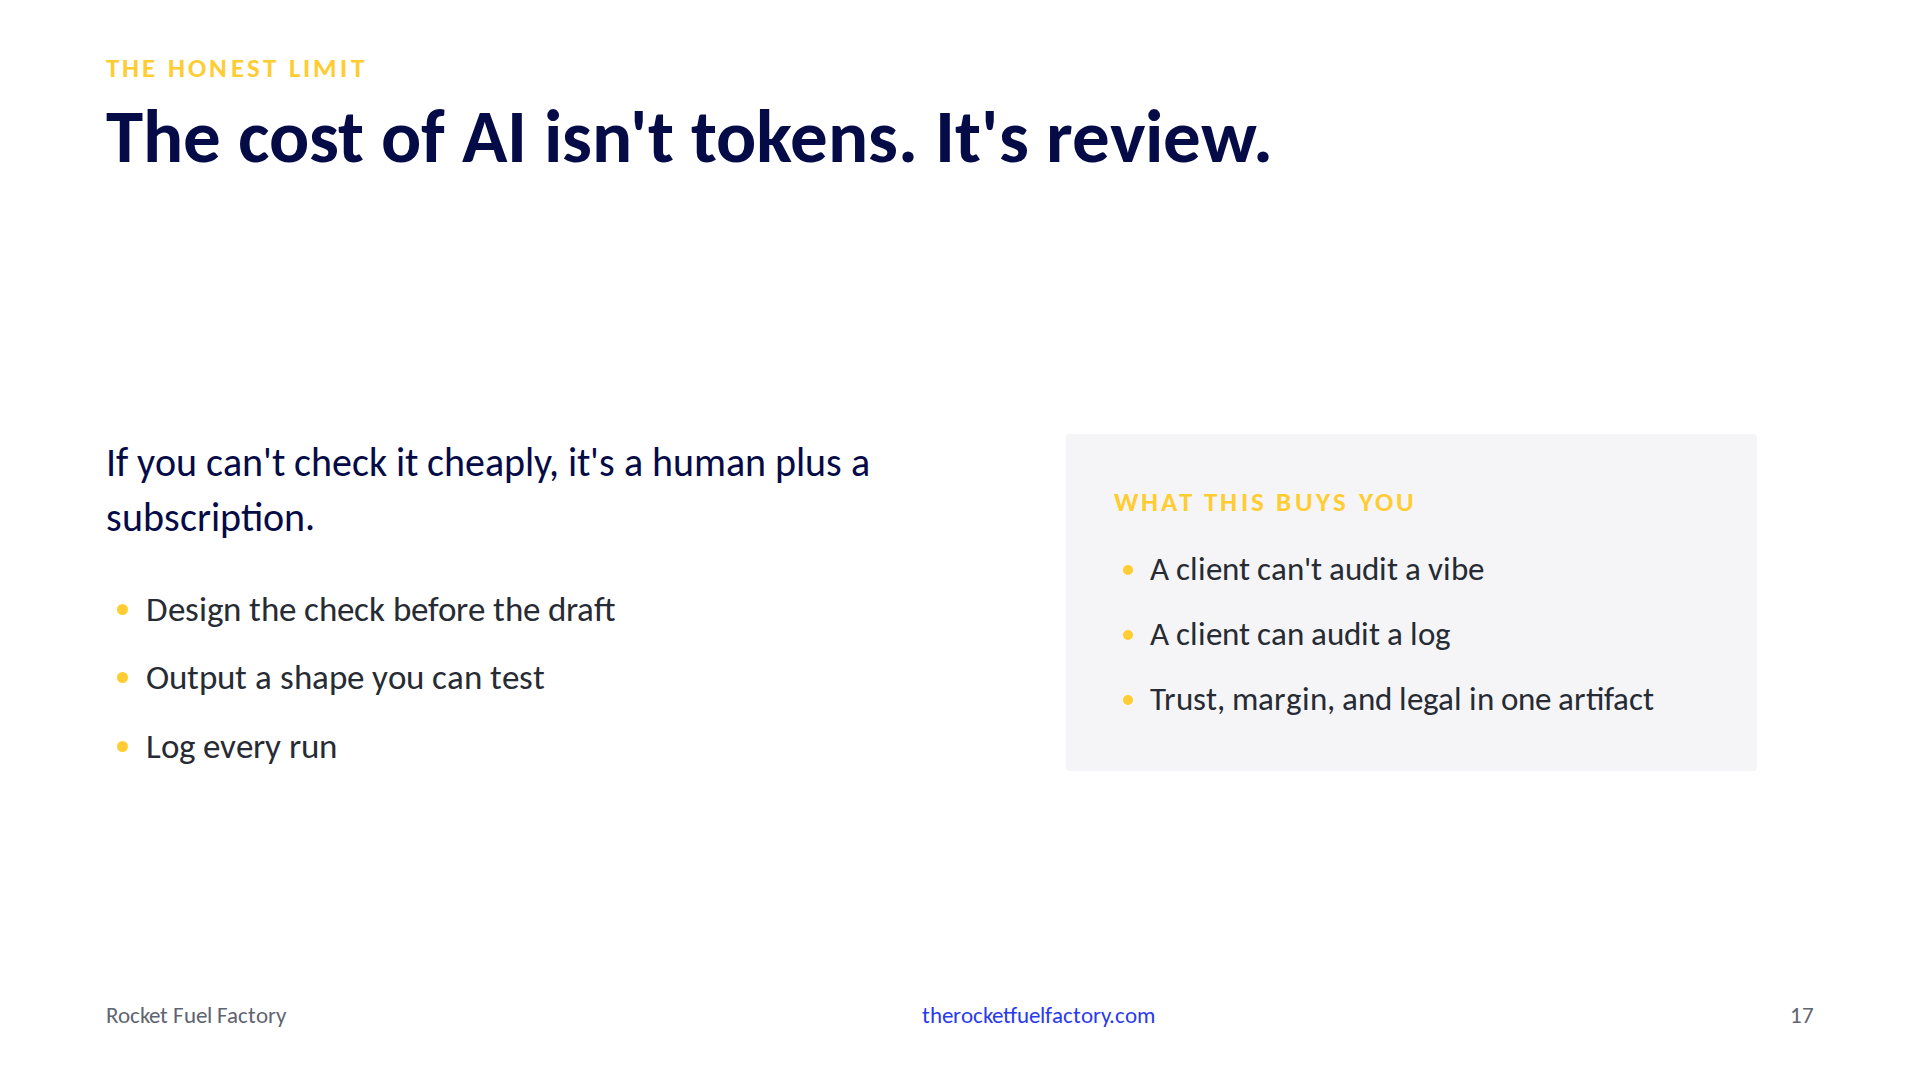
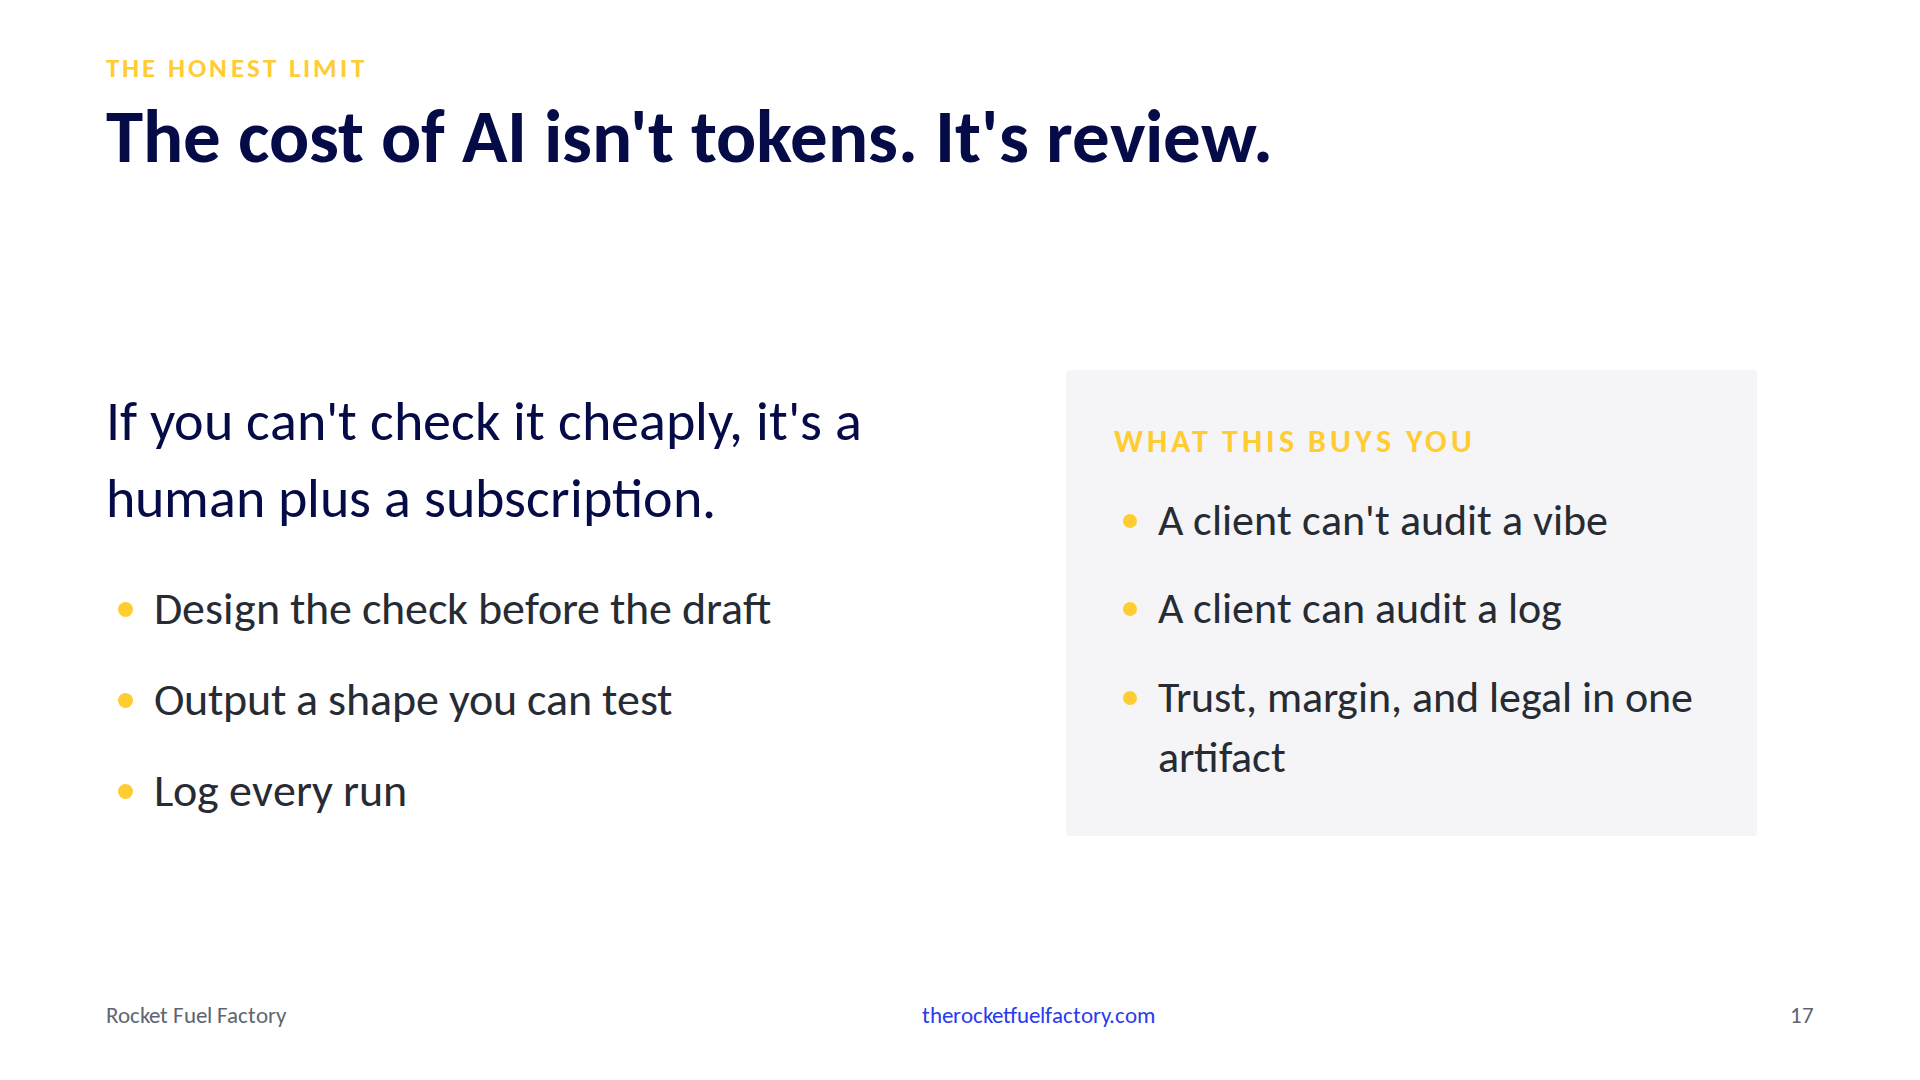
Slide 12: checklist, two readings, invoice line; two-column layout text enlarged

diff --git a/src/components/slides/012-ExistsMeansSaidOutLoud.jsx b/src/components/slides/012-ExistsMeansSaidOutLoud.jsx
@@ -1,26 +1,80 @@
-import TwoColumnSlide from '../layouts/TwoColumnSlide'
+import ContentFrame from '../chrome/ContentFrame'
 
-// What Aharon's law means in this talk, shown on a shop, not on a prompt.
-// The list was complete and followed; the meaning of one line was not.
+// What Aharon's law means in this talk, drawn instead of told: the checklist
+// the room already has, every box ticked, one line read two ways, and the
+// invoice line that finally surfaces it a year later.
+
+const STEPS = [
+  'Disable the account',
+  'Forward the mailbox',
+  'Collect the laptop',
+  'Cancel software licenses',
+  'Remove from distribution lists',
+  'Close the ticket',
+]
+const HIGHLIGHT = 3
+
+const TOP = 262
+
+function Check({ accent }) {
+  return (
+    <svg width="40" height="40" viewBox="0 0 40 40" className="shrink-0" aria-hidden="true">
+      <rect x="2" y="2" width="36" height="36" rx="6" fill="none" stroke={accent ? '#FF5219' : '#A9AEB8'} strokeWidth="3" />
+      <path d="M10 21 L17 28 L30 13" fill="none" stroke={accent ? '#FF5219' : '#5F6570'} strokeWidth="4" strokeLinecap="round" strokeLinejoin="round" />
+    </svg>
+  )
+}
+
 export default function ExistsMeansSaidOutLoud({ slideNumber }) {
   return (
-    <TwoColumnSlide
+    <ContentFrame
       eyebrow="What the law means here"
-      title="The list was followed. The process still didn't exist."
+      title="A client's employee leaves while Mike is on vacation"
       accent="orange"
       slideNumber={slideNumber}
-      paragraph='"Cancel software licenses." Same words. Two meanings.'
-      points={[
-        'Mike meant Microsoft, Adobe, and two more',
-        'The covering tech meant Microsoft',
-        'Nine Adobe seats, billed for a year',
-      ]}
-      cardTitle="The cost, and the fix"
-      cardItems={[
-        'A senior tech who cannot take vacation',
-        'Every departure handled twice',
-        'One hour with Mike. Write down which licenses.',
-      ]}
-    />
+    >
+      {/* The checklist */}
+      <div
+        className="absolute rounded-[4px] bg-rff-light"
+        style={{ left: 106, top: TOP, width: 820, padding: '40px 48px 44px' }}
+      >
+        <p className="text-[26px] font-bold uppercase tracking-[0.12em] text-rff-muted">Checklist: employee departure</p>
+        <p className="mt-[6px] text-[30px] text-rff-muted">Owner: Mike</p>
+        <ul className="mt-[28px]">
+          {STEPS.map((step, i) => {
+            const hot = i === HIGHLIGHT
+            return (
+              <li key={step} className="flex items-center gap-[22px]" style={{ marginTop: i === 0 ? 0 : 18 }}>
+                <Check accent={hot} />
+                <span className={hot ? 'text-[40px] font-bold text-rff-orange' : 'text-[36px] text-rff-body'}>{step}</span>
+              </li>
+            )
+          })}
+        </ul>
+      </div>
+
+      {/* Two readings of the highlighted line */}
+      <div className="absolute" style={{ left: 1010, top: TOP + 4, width: 804 }}>
+        <p className="text-[26px] font-bold uppercase tracking-[0.12em] text-rff-orange">That line means</p>
+        <p className="mt-[30px] text-[30px] text-rff-muted">To whoever covers for him</p>
+        <p className="mt-[4px] text-[40px] font-bold leading-snug text-rff-navy">Microsoft 365</p>
+        <p className="mt-[34px] text-[30px] text-rff-muted">To Mike</p>
+        <p className="mt-[4px] text-[40px] font-bold leading-snug text-rff-navy">
+          Microsoft 365, Adobe, and the two tools he set up for that client
+        </p>
+      </div>
+
+      {/* The invoice line, a year later */}
+      <div
+        className="absolute rounded-[4px] border-[3px] border-rff-gray-line bg-white"
+        style={{ left: 1010, top: 748, width: 804, padding: '28px 40px' }}
+      >
+        <p className="text-[26px] font-bold uppercase tracking-[0.12em] text-rff-muted">Invoice, twelve months later</p>
+        <div className="mt-[14px] flex items-baseline justify-between">
+          <span className="text-[38px] text-rff-body">Adobe Creative Cloud</span>
+          <span className="text-[38px] font-bold text-rff-navy">9 seats</span>
+        </div>
+      </div>
+    </ContentFrame>
   )
 }

diff --git a/src/components/layouts/TwoColumnSlide.jsx b/src/components/layouts/TwoColumnSlide.jsx
@@ -36,11 +36,11 @@ export default function TwoColumnSlide({
         className="absolute flex flex-col justify-center gap-[40px]"
         style={{ left: 106, top: TOP, width: LEFT_WIDTH, height: BOTTOM - TOP }}
       >
-        {paragraph && <p className="text-[40px] leading-snug text-rff-navy">{paragraph}</p>}
+        {paragraph && <p className="text-[56px] leading-snug text-rff-navy">{paragraph}</p>}
         {points.length > 0 && (
-          <ul className={`list-disc pl-[40px] text-[35px] leading-snug text-rff-body ${ACCENT_MARKER[accent]}`}>
+          <ul className={`list-disc pl-[48px] text-[46px] leading-snug text-rff-body ${ACCENT_MARKER[accent]}`}>
             {points.map((point, i) => (
-              <li key={i} className="mt-[20px] first:mt-0">
+              <li key={i} className="mt-[28px] first:mt-0">
                 {point}
               </li>
             ))}
@@ -53,10 +53,10 @@ export default function TwoColumnSlide({
           style={{ left: CARD_LEFT, top: TOP, width: CARD_WIDTH, height: BOTTOM - TOP }}
         >
           <div className="rounded-[4px] bg-rff-light p-[48px]">
-            <p className={`text-[27px] font-bold uppercase tracking-[0.12em] ${ACCENT_TEXT[accent]}`}>{cardTitle}</p>
-            <ul className={`mt-[24px] list-disc pl-[36px] text-[33px] leading-snug text-rff-body ${ACCENT_MARKER[accent]}`}>
+            <p className={`text-[32px] font-bold uppercase tracking-[0.12em] ${ACCENT_TEXT[accent]}`}>{cardTitle}</p>
+            <ul className={`mt-[24px] list-disc pl-[44px] text-[44px] leading-snug text-rff-body ${ACCENT_MARKER[accent]}`}>
               {cardItems.map((item, i) => (
-                <li key={i} className="mt-[20px] first:mt-0">
+                <li key={i} className="mt-[28px] first:mt-0">
                   {item}
                 </li>
               ))}
